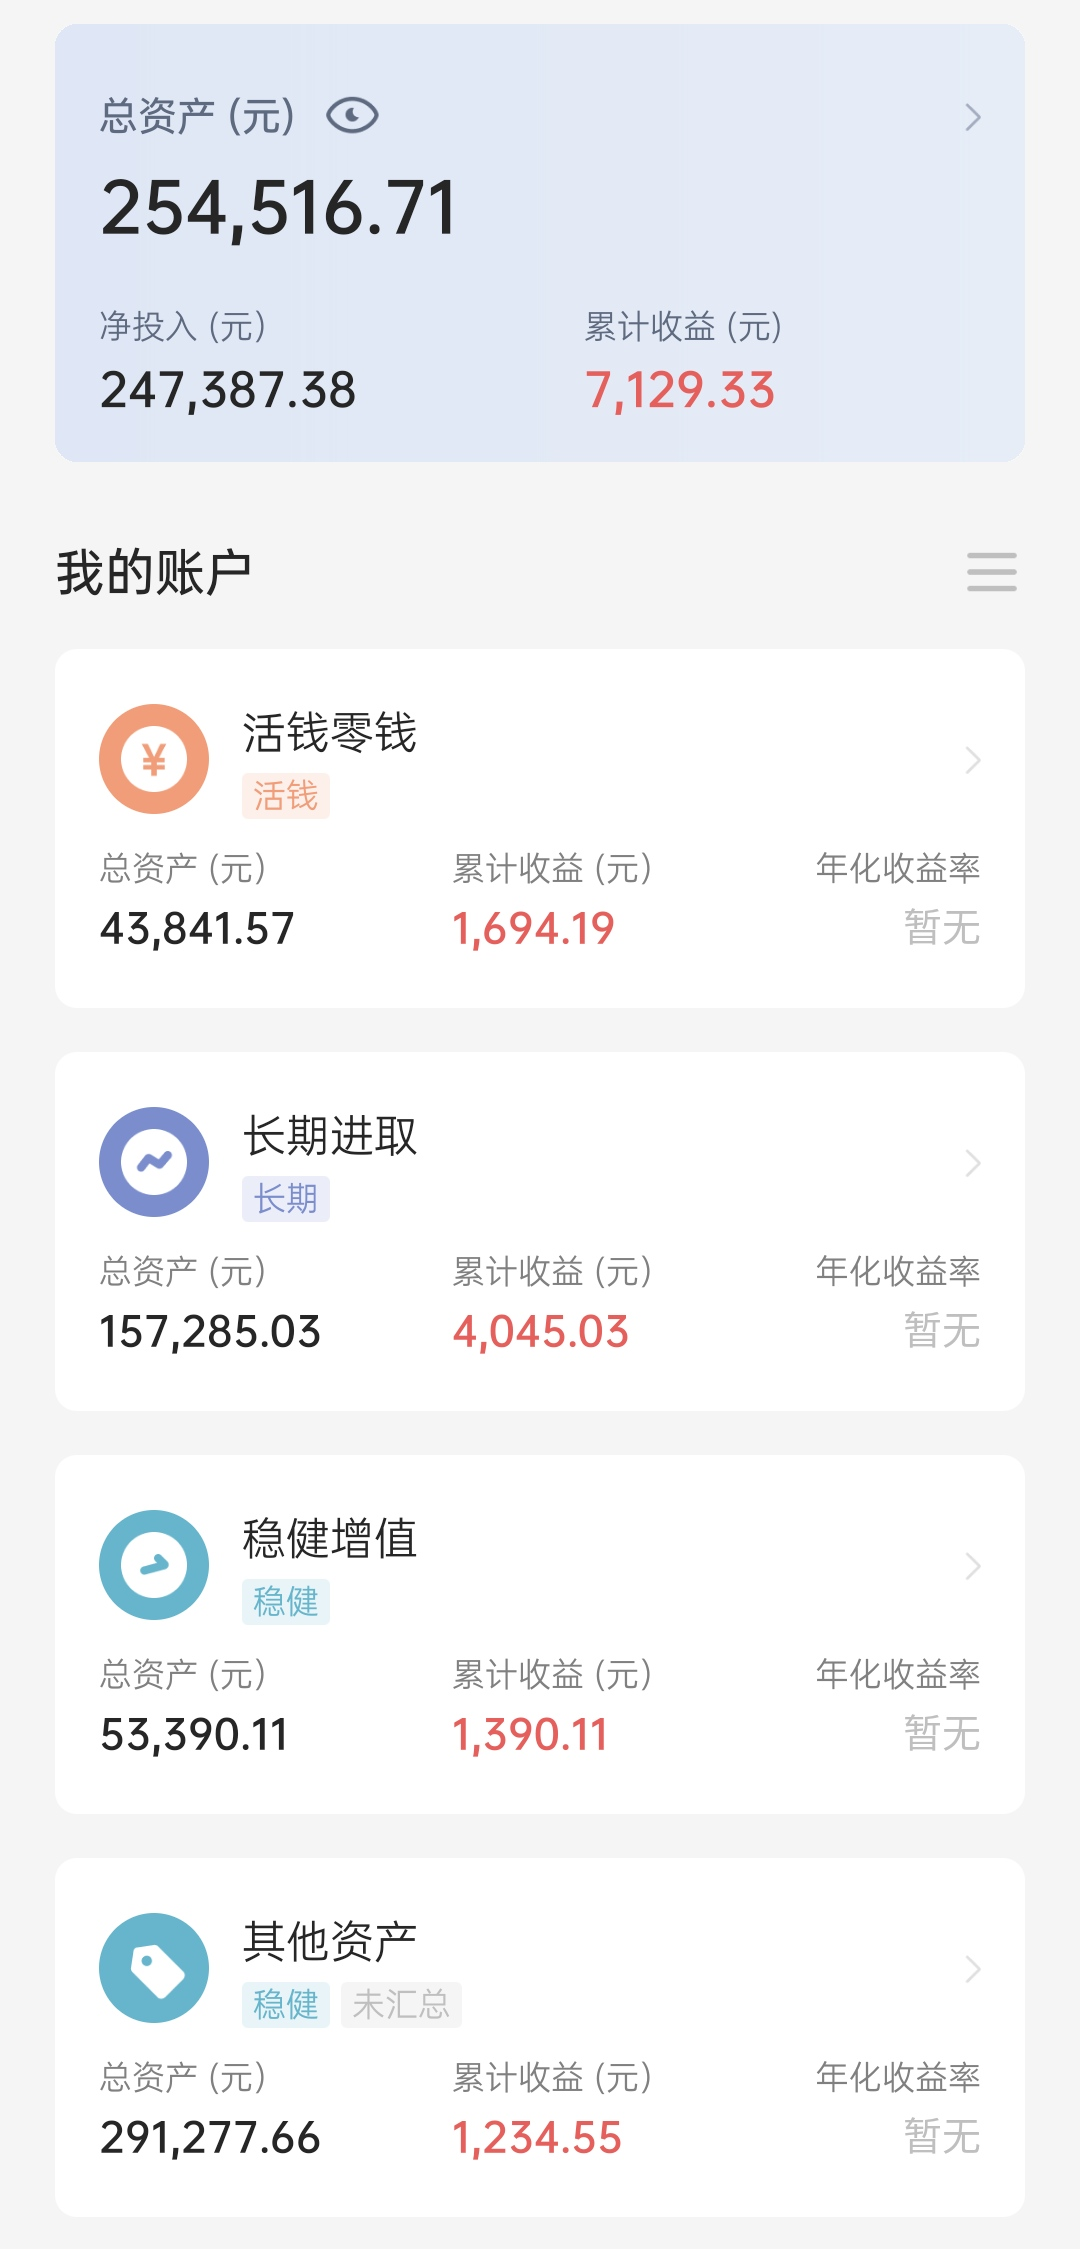
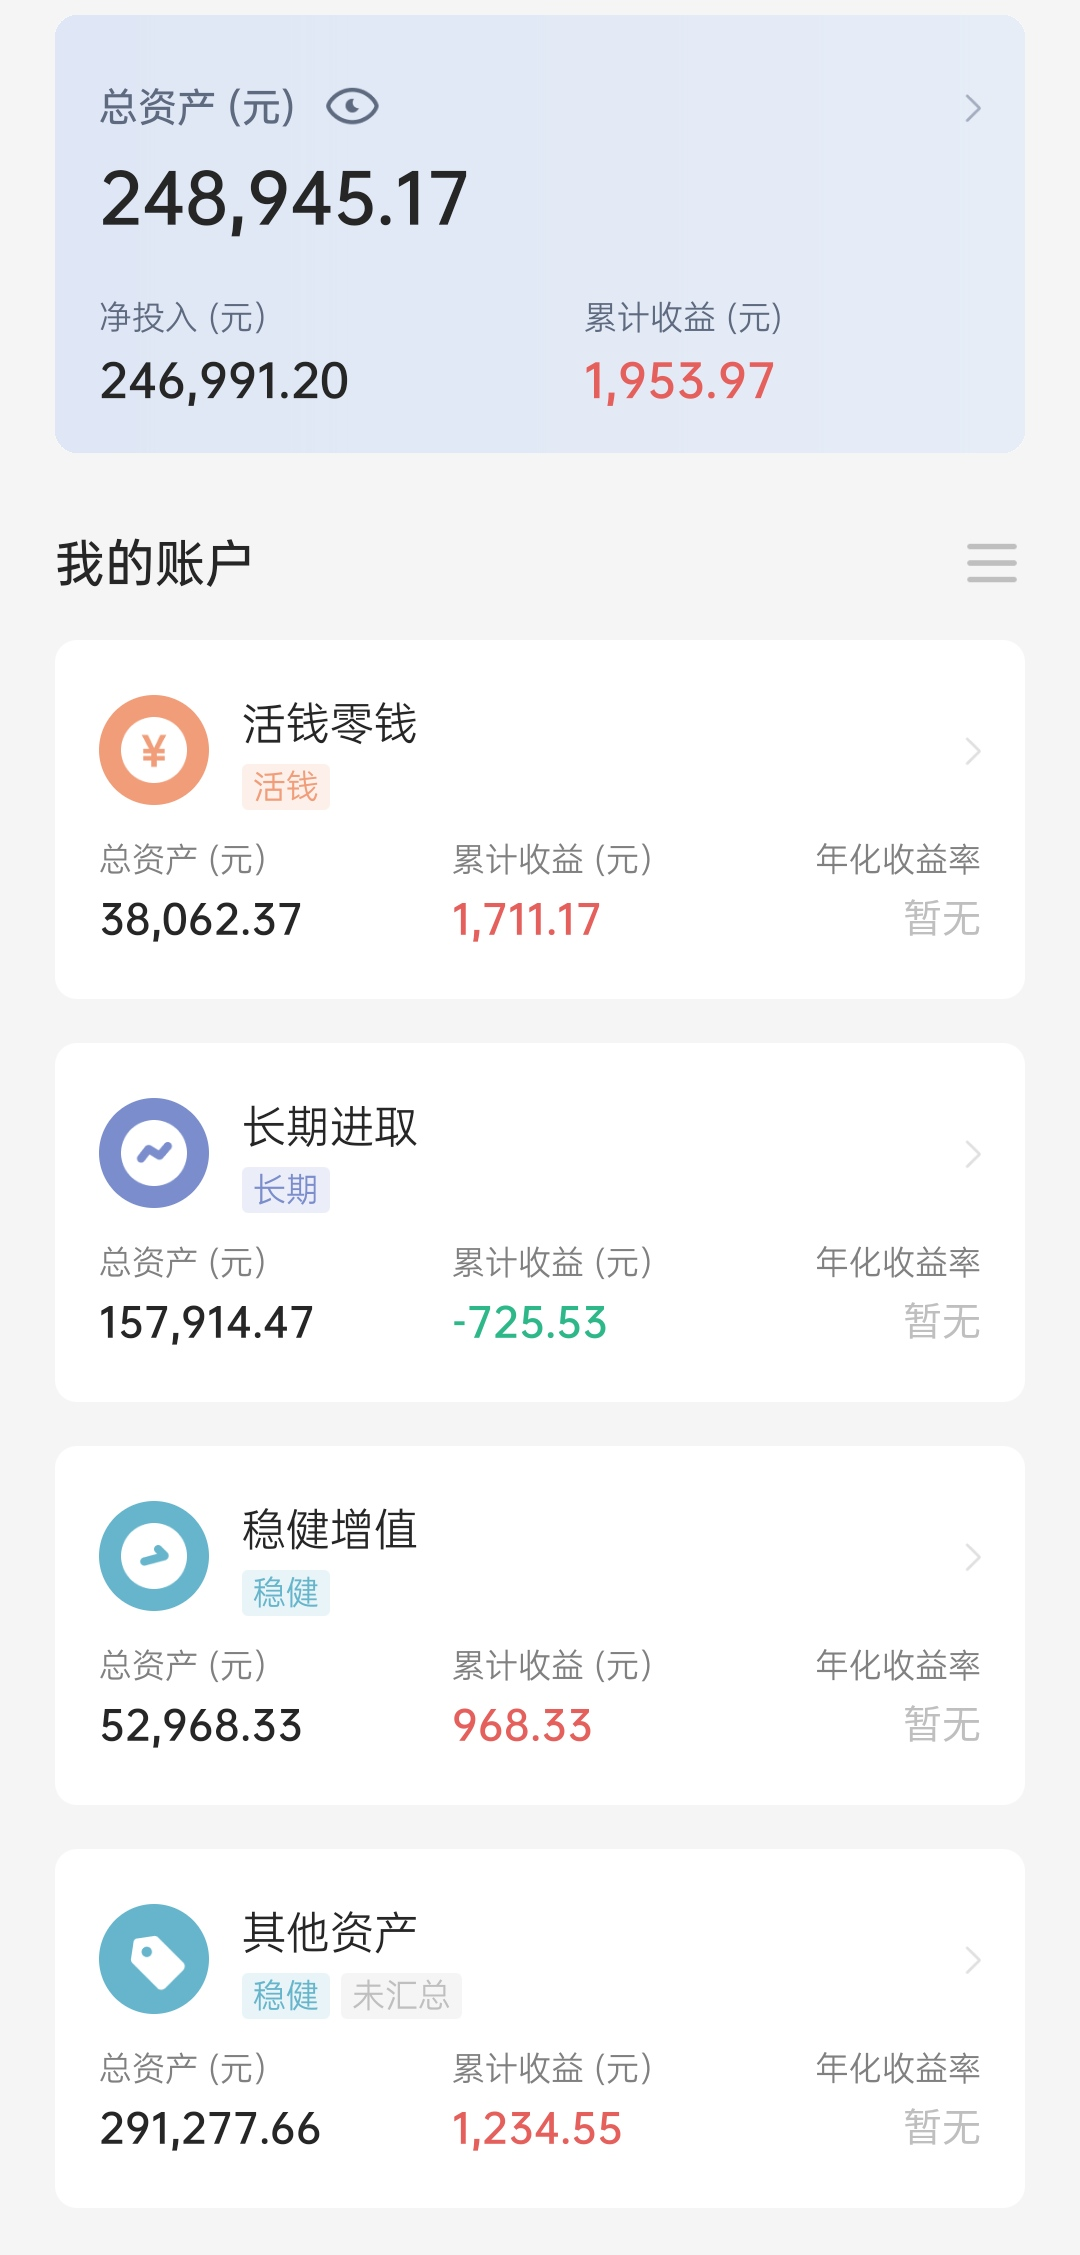
2021-09-25

diff --git a/posts/2021-09-25.md b/posts/2021-09-25.md
@@ -1,0 +1,7 @@
+## 本期操作
+
+由于有中秋假期，所以本期无操作。
+
+## 当前资产
+
+![iamge](images/2021-09-25.jpeg)
